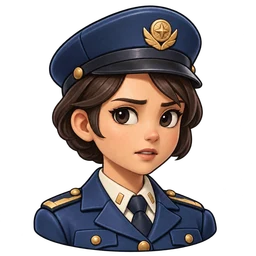
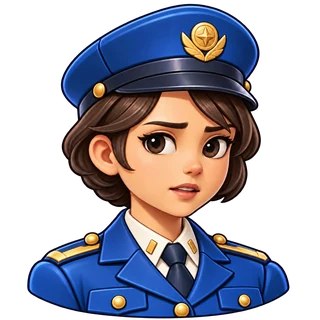
art: polish observer breakout portrait and command-blue palette

diff --git a/src/ui/observer.css b/src/ui/observer.css
@@ -1,11 +1,13 @@
 .beachhead-defense .field-observer {
-  position:absolute; z-index:9; pointer-events:none; left:12px; top:calc(var(--hud-inset-top, 0px) + 62px);
-  box-sizing:border-box; width:min(310px, calc(100% - 24px)); min-height:88px; padding:9px 14px 9px 78px;
+  position:absolute; z-index:9; pointer-events:none; left:12px; top:calc(var(--hud-inset-top, 0px) + 76px);
+  box-sizing:border-box; width:min(310px, calc(100% - 24px)); min-height:88px; padding:9px 14px 9px 110px;
   background:rgb(24 43 59 / 83%); border:2px solid #e0c78d; border-radius:3px 12px 4px 7px;
-  box-shadow:3px 3px 0 #101d2c; color:#fff0d2; display:flex; align-items:center;
+  box-shadow:3px 3px 0 #101d2c; color:#fff0d2; display:flex; align-items:center; overflow:visible;
 }
 .field-observer[hidden] { display:none; }
-.field-observer img { position:absolute; width:72px; height:82px; object-fit:contain; left:1px; bottom:0; }
+/* Fixed bust slot: cap clears the top controls; shoulders overlap the plaque.
+   Both expressions share a square composition, so phrases never shift the face. */
+.field-observer img { position:absolute; width:110px; height:110px; object-fit:contain; left:-5px; bottom:-8px; }
 .field-observer p { margin:0; font:600 13px/1.38 system-ui, sans-serif; text-wrap:pretty; }
 .observer-radio-light { position:absolute; right:6px; top:7px; width:4px; height:4px; border-radius:50%; background:#ffb547; }
 @media (prefers-reduced-motion: reduce) { .field-observer { transform:none !important; } }

diff --git a/src/ui/FieldObserver.ts b/src/ui/FieldObserver.ts
@@ -27,7 +27,7 @@ export class FieldObserver {
     this.audio.prepareRadio(this.locale, 'missionIntro');
     this.element.className = 'field-observer'; this.element.hidden = true;
     this.element.setAttribute('aria-live', 'polite');
-    this.portrait.alt = ''; this.portrait.width = 72; this.portrait.height = 82;
+    this.portrait.alt = ''; this.portrait.width = 110; this.portrait.height = 110;
     this.lamp.className = 'observer-radio-light'; this.lamp.setAttribute('aria-hidden', 'true');
     this.element.append(this.portrait, this.text, this.lamp);
     this.updateText(); host.append(this.element);

diff --git a/public/art/observer/PROVENANCE.md b/public/art/observer/PROVENANCE.md
@@ -1,14 +1,14 @@
 # Field Observer assets
 
-`neutral.webp` and `alert.webp` are original portraits generated for TopWar with OpenAI's built-in image generation tool on 2026-10-10. No stock portrait, real-person reference, existing game character or downloaded art was used. The user compared a simpler toy-figure revision and selected the original portrait direction. Final in-game presentation remains subject to human playtest review. This records provenance, not a claim of exclusive copyright or public-domain status.
+`neutral.webp` and `alert.webp` are original portraits generated for TopWar with OpenAI's built-in image generation tool on 2026-10-10. P3-B.2 edits use the accepted original portraits as identity/expression references, retaining the officer selected by the user rather than the discarded simpler toy-figure direction. No stock portrait, real-person reference, existing game character or downloaded art was used. Final in-game presentation remains subject to human playtest review. This records provenance, not a claim of exclusive copyright or public-domain status.
 
-The transparent PNG masters were resized to 256px and encoded as WebP (quality 88), retaining alpha. Both shipping assets total approximately 32 KB. The discarded revision is not shipped.
+The P3-B.2 transparent PNG masters were resized proportionally to 320×320 and encoded as WebP (quality 88), retaining alpha. Both shipping assets total 49,158 bytes. Local review masters and before/after captures are under `artifacts/p3b2/`; only the lightweight WebPs ship. Both expressions use the same canvas and fixed 110×110 CSS-pixel bust slot. The cap breaks above the plaque and the shoulders below it. The 310×88 panel moves down 14px to clear the existing top controls; extra subtitle inset leaves space beside the bust. No new animation or renderer resources were added.
 
 ## Prompt set
 
-Neutral: Original compact transparent radio portrait of a young adult female Field Observer. Rounded Toy Soldier / Handcrafted Military Arcade, cute rounded chibi but calm, professional and confident. Focused dark eyes, relaxed mouth, neat short dark brown hair, blue military cap with small gold insignia, clean navy uniform and ivory collar. Dark ink contours, simple mobile-readable shapes, soft painted enamel toy finish, restrained warm skin/navy/ivory/amber palette, slight asymmetry. Head and shoulders with generous margins, slight three-quarter pose. No hands, accessories, text, frame or scenery; no existing character resemblance. Readable at 72px, without exaggerated eyelashes or makeup.
+Neutral edit (built-in imagegen): Use case: identity-preserve. Edit target: the supplied accepted TopWar Field Observer neutral portrait. Produce ONE transparent-background portrait asset, no UI or background. Preserve this exact young adult female officer identity, face, brown eyes, neat short brown hair, calm professional neutral expression, three-quarter gaze, rounded chibi proportions and soft enamel illustrated Toy Soldier style. This is a subtle polish, not a different character. Recompose as a close head-and-upper-chest bust for a mobile radio panel: face is the centerpiece, hat fully visible near the top, complete shoulder silhouette widening at the lower edge, bottom crop just below the lapels/upper chest (not waist). Tight practical composition with only a small transparent margin. Cap and jacket use a friendlier richer command blue/navy, noticeably clearer mid-blue highlights that belong with bright blue toy infantry, while darker navy outlines and structural panels preserve formality. Retain original small gold cap insignia, gold epaulette trim and buttons, ivory shirt and dark tie. No added props, headset, medals, text, glow, frame or floating accessories. Keep anatomy and facial proportions faithful to the reference. Genuine transparent alpha surrounding the bust. A clean coherent silhouette suitable for breaking slightly above and below a UI plaque.
 
-Alert edit: Preserve identity, crop, uniform, cap, palette and transparent background. Change only the brows, eyes and mouth to calm, focused concern while delivering a professional warning. Do not exaggerate fear or excitement.
+Alert edit (built-in imagegen): Use case: identity-preserve. Image 1 is the EDIT TARGET: revised TopWar neutral Field Observer command-blue bust. Image 2 is EXPRESSION REFERENCE ONLY: her accepted old alert face. Output one transparent portrait, same canvas and crop as Image 1. Change ONLY the expression of Image 1 to calm professional alert concern: gently lift/draw brows and part the lips just slightly while speaking a focused warning, inspired by Image 2. Preserve all other pixels/forms as closely as possible: exact same character, face proportions, eye size, head position and angle, hair silhouette, cap, gold insignia, brighter command-blue uniform with navy structure, ivory collar, shoulders, light and shading, canvas proportions and transparent margins. No new elements, no wider eyes, no dramatic fear, no smiling, no change in gaze, no rescaling or repositioning. Neutral and alert must register at identical mobile layout coordinates with no portrait jump. Genuine transparent alpha.
 
 ## Prerecorded dialogue
 
